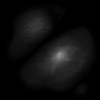
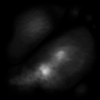
texoords and other misc things

Changed region(s): [[0.12, 0.6, 0.57, 0.87], [0.6, 0.51, 0.63, 0.54]]

diff --git a/SFML_BASIC/Terrain.cpp b/SFML_BASIC/Terrain.cpp
@@ -2,6 +2,7 @@
 #include "SFML/OpenGL.hpp"
 #include "Terrain.h"
 #include <cmath>
+#include <iostream>
 
 Terrain::Terrain(void)
 {
@@ -13,7 +14,7 @@ Terrain::Terrain(void)
 	normals = NULL;
 	vertices=NULL;
 	colors=NULL;	
-	texCoor = NULL;
+	texCoords = NULL;
 	
 	//num squares in grid will be width*height, two triangles per square
 	//3 verts per triangle
@@ -27,7 +28,7 @@ Terrain::~Terrain(void)
 	delete[] normals;
 	delete [] vertices;
 	delete [] colors;
-	delete[] texCoor;
+	delete[] texCoords;
 }
 
 //interpolate between two values
@@ -40,6 +41,12 @@ void Terrain::setPoint(vector v,float x, float y, float z){
 		v[0]=x;
 		v[1]=y;
 		v[2]=z;
+}
+
+void Terrain::setTexCoords(vector v, float x, float y){
+
+	v[0] = x;
+	v[1] = y;	
 }
 
 void Terrain::calculateNormal(vector normalsVec, vector point1, vector point2, vector point3){
@@ -90,72 +97,73 @@ void Terrain::Init(){
 	vertices = new vector[numVerts];
 	delete[] colors;
 	colors = new vector[numVerts];
-	delete[] texCoor;
-	texCoor = new vector[numVerts];
+	delete[] texCoords;
+	texCoords = new vector[numVerts];
 
 	for (int i = 0; i < gridWidth; i++){ //iterate left to right
 		for (int j = 0; j < gridDepth; j++){//iterate front to back
 			color = image.getPixel(j, i);
-			pixelArray[j][i] = ((color.r / 255.0f));
-		}
-
-		//interpolate along the edges to generate interior points
-		for (int i = 0; i < gridWidth - 1; i++){ //iterate left to right	
-			for (int j = 0; j < gridDepth - 1; j++){//iterate front to back
-				int sqNum = (j + i*gridDepth);
-				int vertexNum = sqNum * 3 * 2; //6 vertices per square (2 tris)
-				int firstVertexNum = vertexNum;
-				float front = lerp(-terrDepth / 2, terrDepth / 2, (float)j / gridDepth);
-				float back = lerp(-terrDepth / 2, terrDepth / 2, (float)(j + 1) / gridDepth);
-				float left = lerp(-terrWidth / 2, terrWidth / 2, (float)i / gridDepth);
-				float right = lerp(-terrDepth / 2, terrDepth / 2, (float)(i + 1) / gridDepth);
-
-				/*
-				back   +-----+	looking from above, the grid is made up of regular squares
-				|tri1/|	'left & 'right' are the x cooded of the edges of the square
-				|   / |	'back' & 'front' are the y coords of the square
-				|  /  |	each square is made of two trianlges (1 & 2)
-				| /   |
-				|/tri2|
-				front  +-----+
-				left   right
-				*/			
-
-				//tri1
-				setPoint(colors[vertexNum], 1.f, 1.f, 1.f);
-				setPoint(vertices[vertexNum++], left, getHeight(j, i), front);
-				setPoint(colors[vertexNum], 0.f, 1.f, 0.f);
-				setPoint(vertices[vertexNum++], right, getHeight(j, i + 1), front);
-				setPoint(colors[vertexNum], 0.f, 0.f, 1.f);
-				setPoint(vertices[vertexNum++], right, getHeight(j + 1, i + 1), back);	
-
-				//tri2
-				setPoint(colors[vertexNum], 1.f, 0.f, 0.f);
-				setPoint(vertices[vertexNum++], right, getHeight(j + 1, i + 1), back);
-				setPoint(colors[vertexNum], 0.f, 1.f, 0.f);
-				setPoint(vertices[vertexNum++], left, getHeight(j, i), front);
-				setPoint(colors[vertexNum], 0.f, 0.f, 1.f);
-				setPoint(vertices[vertexNum++], left, getHeight(j + 1, i), back);
-							
-				vector normalVec = {};
-				calculateNormal(normalVec, vertices[firstVertexNum], vertices[firstVertexNum + 1], vertices[firstVertexNum + 2]);
-
-				for (int k = 0; k < 6; k++)
-				{
-					setPoint(normals[firstVertexNum + k], normalVec[0], normalVec[1], normalVec[2]);
-				}
-			}
-		}
+			pixelArray[j][i] = ((color.r / 255.0f));	
+			setTexCoords(texCoords[i + j], (float)i / (gridWidth - 1), (float)j / (gridDepth - 1));			
+		}	
 	}	
+
+	//interpolate along the edges to generate interior points
+	for (int i = 0; i < gridWidth - 1; i++){ //iterate left to right	
+		for (int j = 0; j < gridDepth - 1; j++){//iterate front to back
+			int sqNum = (j + i*gridDepth);
+			int vertexNum = sqNum * 3 * 2; //6 vertices per square (2 tris)
+			int firstVertexNum = vertexNum;
+			float front = lerp(-terrDepth / 2, terrDepth / 2, (float)j / gridDepth);
+			float back = lerp(-terrDepth / 2, terrDepth / 2, (float)(j + 1) / gridDepth);
+			float left = lerp(-terrWidth / 2, terrWidth / 2, (float)i / gridDepth);
+			float right = lerp(-terrDepth / 2, terrDepth / 2, (float)(i + 1) / gridDepth);
+
+			/*
+			back   +-----+	looking from above, the grid is made up of regular squares
+			|tri1/|	'left & 'right' are the x cooded of the edges of the square
+			|   / |	'back' & 'front' are the y coords of the square
+			|  /  |	each square is made of two trianlges (1 & 2)
+			| /   |
+			|/tri2|
+			front  +-----+
+			left   right
+			*/			
+
+			//tri1
+			setPoint(colors[vertexNum], 1.f, 1.f, 1.f);
+			setPoint(vertices[vertexNum++], left, getHeight(j, i), front);
+			setPoint(colors[vertexNum], 0.f, 1.f, 0.f);
+			setPoint(vertices[vertexNum++], right, getHeight(j, i + 1), front);
+			setPoint(colors[vertexNum], 0.f, 0.f, 1.f);
+			setPoint(vertices[vertexNum++], right, getHeight(j + 1, i + 1), back);	
+
+			//tri2
+			setPoint(colors[vertexNum], 1.f, 0.f, 0.f);
+			setPoint(vertices[vertexNum++], right, getHeight(j + 1, i + 1), back);
+			setPoint(colors[vertexNum], 0.f, 1.f, 0.f);
+			setPoint(vertices[vertexNum++], left, getHeight(j, i), front);
+			setPoint(colors[vertexNum], 0.f, 0.f, 1.f);
+			setPoint(vertices[vertexNum++], left, getHeight(j + 1, i), back);
+							
+			vector normalVec = {};
+			calculateNormal(normalVec, vertices[firstVertexNum], vertices[firstVertexNum + 1], vertices[firstVertexNum + 2]);
+
+			for (int k = 0; k < 6; k++)
+			{
+				setPoint(normals[firstVertexNum + k], normalVec[0], normalVec[1], normalVec[2]);				
+			}
+		}		
+	}		
 }
 
 void Terrain::Draw(){
 	glBegin(GL_TRIANGLES);
-	for(int i =0;i<numVerts;i++){		
-			glNormal3fv(normals[i]);
-			glColor3fv(colors[i]);
+	for(int i =0;i<numVerts;i++){	
+			glColor3d(1.0, 1.0, 1.0);
+			glNormal3fv(normals[i]);			
 			glVertex3fv(vertices[i]);
-			glTexCoord2fv(texCoor[i]);
+			glTexCoord2fv(texCoords[i]);
 	}
 	glEnd();
 }

diff --git a/SFML_BASIC/main.cpp b/SFML_BASIC/main.cpp
@@ -37,6 +37,10 @@ int main()
 	int height = 600;
 	bool wireframe = true;
 
+	sf::Texture sea; //texture object called car
+
+	sea.loadFromFile("../water.png");
+
 	// create the window
 	sf::RenderWindow App(sf::VideoMode(width, height), "OpenGL", sf::Style::Default, sf::ContextSettings(24));
     // Create a clock for measuring time elapsed     
@@ -51,7 +55,7 @@ int main()
 	glEnable(GL_LIGHT0);
 
 	GLfloat ambientLight[] = { 0.4, 0.4, 0.4, 1.0 };
-	GLfloat diffuseLight[] = { 0.6, 0.6, 0.6, 1.0 };
+	GLfloat diffuseLight[] = { 1.0, 1.0, 1.0, 1.0 };
 	//GLfloat specularLight[] = { 1.0, 1.0, 1.0, 1.0 };
 
 	glLightfv(GL_LIGHT0, GL_AMBIENT, ambientLight);
@@ -150,6 +154,10 @@ int main()
         //Prepare for drawing 
         // Clear color and depth buffer 
         glClear(GL_COLOR_BUFFER_BIT | GL_DEPTH_BUFFER_BIT); 
+
+		glEnable(GL_TEXTURE_2D);
+		sf::Texture::bind(&sea);
+
    
         // Apply some transformations 
         //initialise the worldview matrix

diff --git a/SFML_BASIC/Terrain.h b/SFML_BASIC/Terrain.h
@@ -12,7 +12,7 @@ class Terrain
 	typedef  GLfloat vector[3];
 	//array of vertices for the grid(this will be a triangle list)
 	//I know, very inefficient, but let's run before we walk
-	vector *texCoor;
+	vector *texCoords;
 	vector *normals;
 	vector *vertices;
 	vector *colors;
@@ -26,6 +26,7 @@ class Terrain
 	float getHeight(int x, int y);
 	void setPoint(vector, float, float,float);
 	void calculateNormal(vector, vector, vector, vector);
+	void setTexCoords(vector v, float x, float y);
 	
 public:
 	Terrain(void);

diff --git a/SFML_BASIC/Camera.h b/SFML_BASIC/Camera.h
@@ -37,8 +37,9 @@ public:
 	}
 
 	void Update(sf::Event e){//respond to keyboard events
+
 		if ((e.type == sf::Event::KeyPressed) && (e.key.code == sf::Keyboard::D)){
-			MoveLeftRight(+1);
+			MoveLeftRight(1);
 		}
 
 		if ((e.type == sf::Event::KeyPressed) && (e.key.code == sf::Keyboard::A)){
